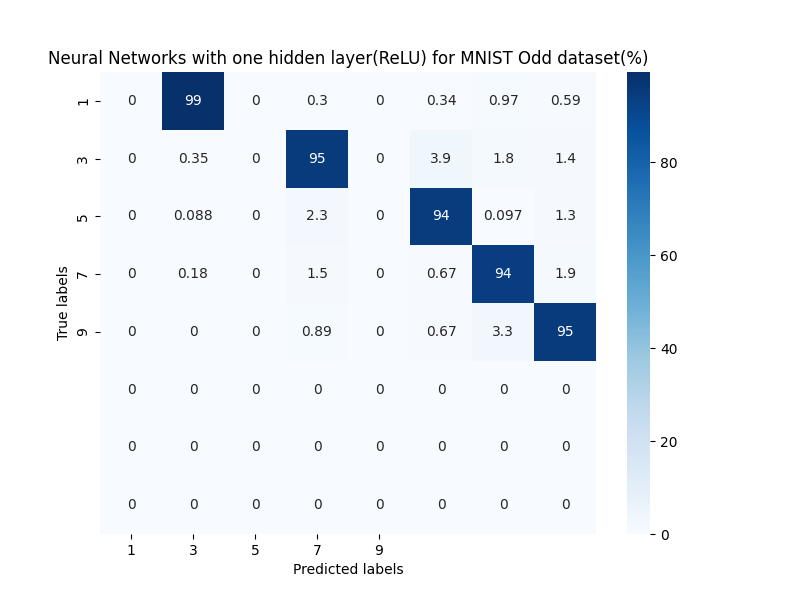
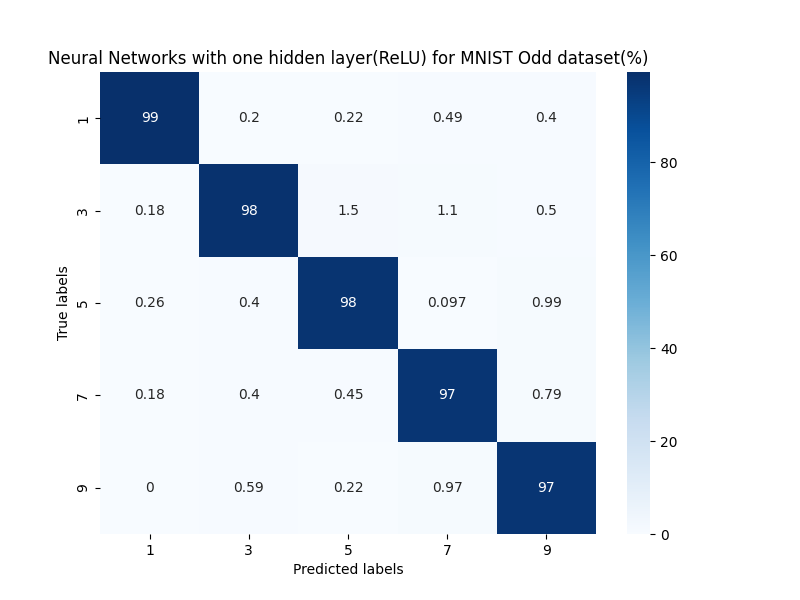
modified plot confusion functions to take test data for prediction and plotting

diff --git a/main.py b/main.py
@@ -22,8 +22,8 @@ y_train_odd = torch.tensor(le_odd.transform(y_train_odd))
 y_train_even = torch.tensor(le_even.transform(y_train_even))
 
 
-def plot_confusion_even(model, title, file):
-    y_pred_cls = le_even.inverse_transform(torch.argmax(model.forward(X_test_even), axis=1))
+def plot_confusion_even(model, title, file, test_data=X_test_even):
+    y_pred_cls = le_even.inverse_transform(torch.argmax(model.forward(test_data), axis=1))
     conf_matrix = confusion_matrix(y_pred_cls, y_test_even, normalize='pred') * 100
     plt.figure(figsize=(8, 6))
     sns.heatmap(conf_matrix, annot=True, cmap="Blues", xticklabels=np.arange(0, 10, 2),
@@ -35,12 +35,11 @@ def plot_confusion_even(model, title, file):
     plt.show()
 
 
-def plot_confusion_odd(model, title, file):
-    y_pred_cls = le_odd.inverse_transform(torch.argmax(model.forward(X_test_odd), axis=1))
+def plot_confusion_odd(model, title, file, test_data=X_test_odd):
+    y_pred_cls = le_odd.inverse_transform(torch.argmax(model.forward(test_data), axis=1))
     conf_matrix = confusion_matrix(y_pred_cls, y_test_odd, normalize='pred') * 100
     plt.figure(figsize=(8, 6))
-    sns.heatmap(conf_matrix, annot=True, cmap="Blues", xticklabels=np.arange(1, 10, 2),
-                yticklabels=np.arange(1, 10, 2))
+    sns.heatmap(conf_matrix, annot=True, cmap="Blues", xticklabels=np.arange(1, 10, 2), yticklabels=np.arange(1, 10, 2))
     plt.xlabel('Predicted labels')
     plt.ylabel('True labels')
     plt.title(f'{title}(%)')
@@ -64,7 +63,7 @@ plot_confusion_even(even_model, 'Softmax Regression for MNIST Even dataset', 'ev
 odd_model = SoftmaxRegression(n_features_odd, n_classes)
 optimizer = torch.optim.Adam(odd_model.parameters(), lr=lr)
 odd_model.fit(X_train_odd, y_train_odd, X_test_odd, y_test_odd, n_epochs, criterion, optimizer, le_odd)
-plot_confusion_even(odd_model, 'Softmax Regression for MNIST Odd dataset', 'odd')
+plot_confusion_odd(odd_model, 'Softmax Regression for MNIST Odd dataset', 'odd')
 
 # Task 2
 # Neural Network on Even numbers
@@ -92,6 +91,7 @@ _, n_features = X_train.shape
 trans_even_model = SoftmaxRegression(n_features, n_classes)
 optimizer = torch.optim.Adam(trans_even_model.parameters(), lr=lr)
 trans_even_model.fit(X_train, y_train_even, X_test, y_test_even, n_epochs, criterion, optimizer, le_even)
+plot_confusion_even(trans_even_model, 'Transfer Learning for MNIST Even dataset', 'trans_even', X_test)
 
 # Extracting the weights from the first layer of the nn model for odd numbers
 layer1_weight = nn_even_model.layer1.weight.data
@@ -104,3 +104,4 @@ _, n_features = X_train.shape
 trans_odd_model = SoftmaxRegression(n_features, n_classes)
 optimizer = torch.optim.Adam(trans_odd_model.parameters(), lr=lr)
 trans_odd_model.fit(X_train, y_train_odd, X_test, y_test_odd, n_epochs, criterion, optimizer, le_odd)
+plot_confusion_odd(trans_odd_model, 'Transfer learning for MNIST Odd dataset', 'trans_odd', X_test)
